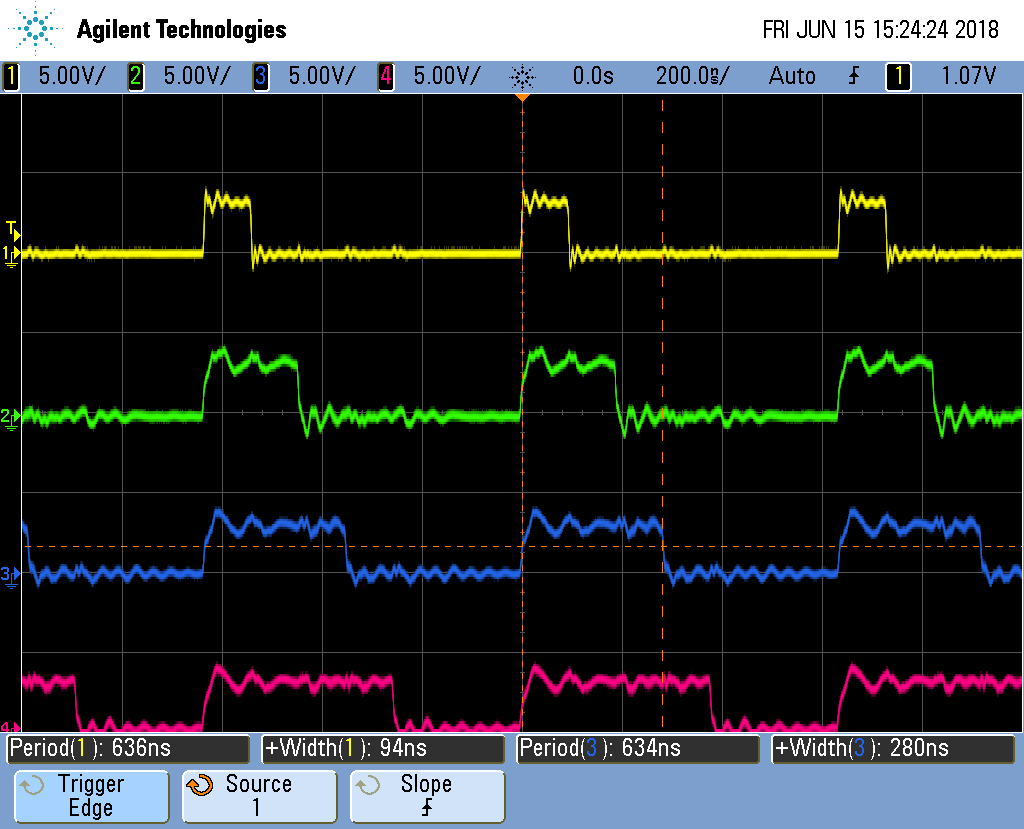
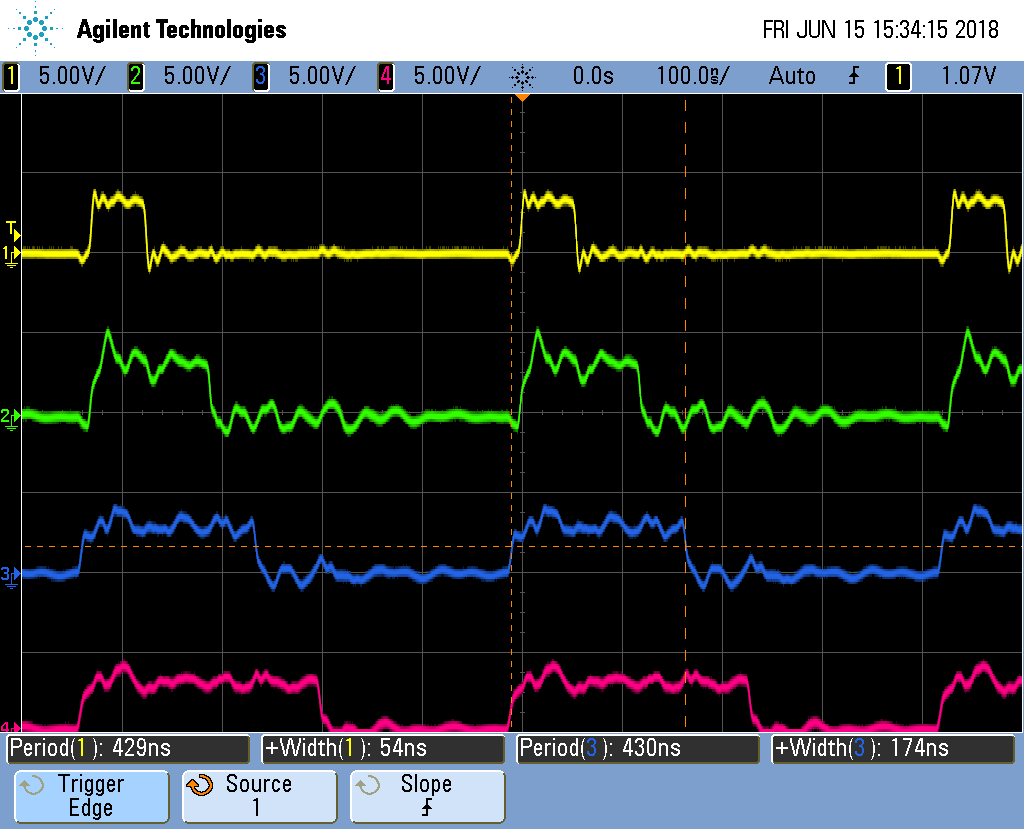
Rearranged code and got a speedup

diff --git a/docs/05blocks/blocks.html b/docs/05blocks/blocks.html
@@ -2412,7 +2412,6 @@ has details of how it works.  Here&#8217;s the code (<code>pwm8.c</code>).</p>
 84
 85
 86
-87
 </pre></td>
   <td class="code"><pre><span class="comment">// This code does MAXCH parallel PWM channels on both PRU 0 and PRU 1</span>
 <span class="comment">// All channels start at the same time.</span>
@@ -2486,19 +2485,18 @@ has details of how it works.  Here&#8217;s the code (<code>pwm8.c</code>).</p>
     Rtmp = __R30;
 
     <span class="keyword">while</span> (<span class="integer">1</span>) {
-<span class="preprocessor">#if</span> PRUN==<span class="integer">0</span>
-<span class="preprocessor">#define</span> PRU0_PRU1_EVT <span class="integer">16</span>
-    __R31 = (PRU0_PRU1_EVT-<span class="integer">16</span>) | (<span class="hex">0x1</span>&lt;&lt;<span class="integer">5</span>);  <span class="comment">//Tell PRU 1 to start</span>
-    __delay_cycles(<span class="integer">8</span>);
-<span class="preprocessor">#endif</span>
 <span class="preprocessor">#if</span> PRUN==<span class="integer">1</span>
-    <span class="keyword">while</span>((__R31 &amp; (<span class="hex">0x1</span>&lt;&lt;<span class="integer">31</span>))==<span class="integer">0</span>) {         <span class="comment">// Wait for PRU 0</span>
-    }
-    CT_INTC.SICR = <span class="integer">16</span>;                  <span class="comment">// Ensure event 16 is cleared</span>
+        <span class="keyword">while</span>((__R31 &amp; (<span class="hex">0x1</span>&lt;&lt;<span class="integer">31</span>))==<span class="integer">0</span>) {     <span class="comment">// Wait for PRU 0</span>
+        }
+        CT_INTC.SICR = <span class="integer">16</span>;                  <span class="comment">// Clear event 16</span>
 <span class="preprocessor">#endif</span>
         __R30 = Rtmp;
         update(<span class="integer">0</span>)
         update(<span class="integer">1</span>)
+<span class="preprocessor">#if</span> PRUN==<span class="integer">0</span>
+<span class="preprocessor">#define</span> PRU0_PRU1_EVT <span class="integer">16</span>
+        __R31 = (PRU0_PRU1_EVT-<span class="integer">16</span>) | (<span class="hex">0x1</span>&lt;&lt;<span class="integer">5</span>);  <span class="comment">//Tell PRU 1 to start</span>
+<span class="preprocessor">#endif</span>
     }
 }</pre></td>
 </tr></table></code></pre>
@@ -2548,15 +2546,15 @@ for a diagram explaining events, channels, hosts, etc.</p></td>
 </tr>
 <tr>
 <td class="tableblock halign-left valign-top"><p class="tableblock">73-77</p></td>
-<td class="tableblock halign-left valign-top"><p class="tableblock">On PRU 0 this generates the interupt to send to PRU 1.  I found PRU 1 was
-slow to respond to the interupt, so I added some <code>__delay_cycles()</code> to keep the
-two in sync.</p></td>
-</tr>
-<tr>
-<td class="tableblock halign-left valign-top"><p class="tableblock">78-82</p></td>
 <td class="tableblock halign-left valign-top"><p class="tableblock">PRU 1 then waits for PRU 0 to signal it.  Bit 31 of <code>__R31</code> corresponds
 to the Host-1 channel which <code>configInitc()</code> set up. We also clear event 16 so
 PRU 0 can set it again.</p></td>
+</tr>
+<tr>
+<td class="tableblock halign-left valign-top"><p class="tableblock">81-84</p></td>
+<td class="tableblock halign-left valign-top"><p class="tableblock">On PRU 0 this generates the interupt to send to PRU 1.  I found PRU 1 was
+slow to respond to the interupt, so I put this code at the end of the loop to
+give time for the signal to get to PRU 1.</p></td>
 </tr>
 </tbody>
 </table>
@@ -2596,7 +2594,7 @@ PRU 0 can set it again.</p></td>
 </div>
 <div id="footer">
 <div id="footer-text">
-Last updated 2018-06-15 15:27:14 EDT
+Last updated 2018-06-15 15:33:51 EDT
 </div>
 </div>
 </body>

diff --git a/docs/05blocks/code/pwm8.c b/docs/05blocks/code/pwm8.c
@@ -70,18 +70,17 @@ void main(void)
 	Rtmp = __R30;
 
 	while (1) {
-#if PRUN==0
-#define PRU0_PRU1_EVT 16
-	__R31 = (PRU0_PRU1_EVT-16) | (0x1<<5);	//Tell PRU 1 to start
-	__delay_cycles(8);
-#endif
 #if PRUN==1
-	while((__R31 & (0x1<<31))==0) {		// Wait for PRU 0
-	}
-	CT_INTC.SICR = 16;					// Clear event 16
+		while((__R31 & (0x1<<31))==0) {		// Wait for PRU 0
+		}
+		CT_INTC.SICR = 16;					// Clear event 16
 #endif
 		__R30 = Rtmp;
 		update(0)
 		update(1)
+#if PRUN==0
+#define PRU0_PRU1_EVT 16
+		__R31 = (PRU0_PRU1_EVT-16) | (0x1<<5);	//Tell PRU 1 to start
+#endif
 	}
 }
